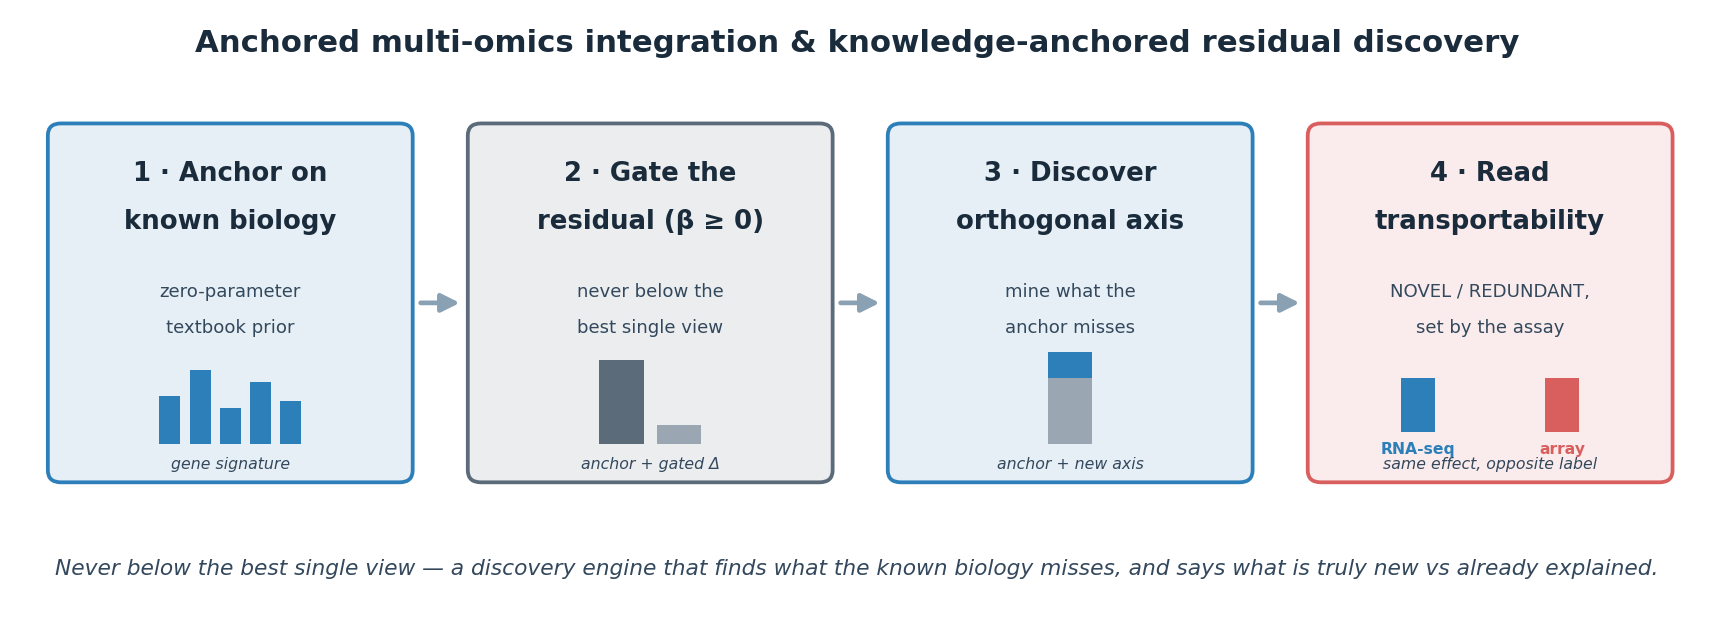
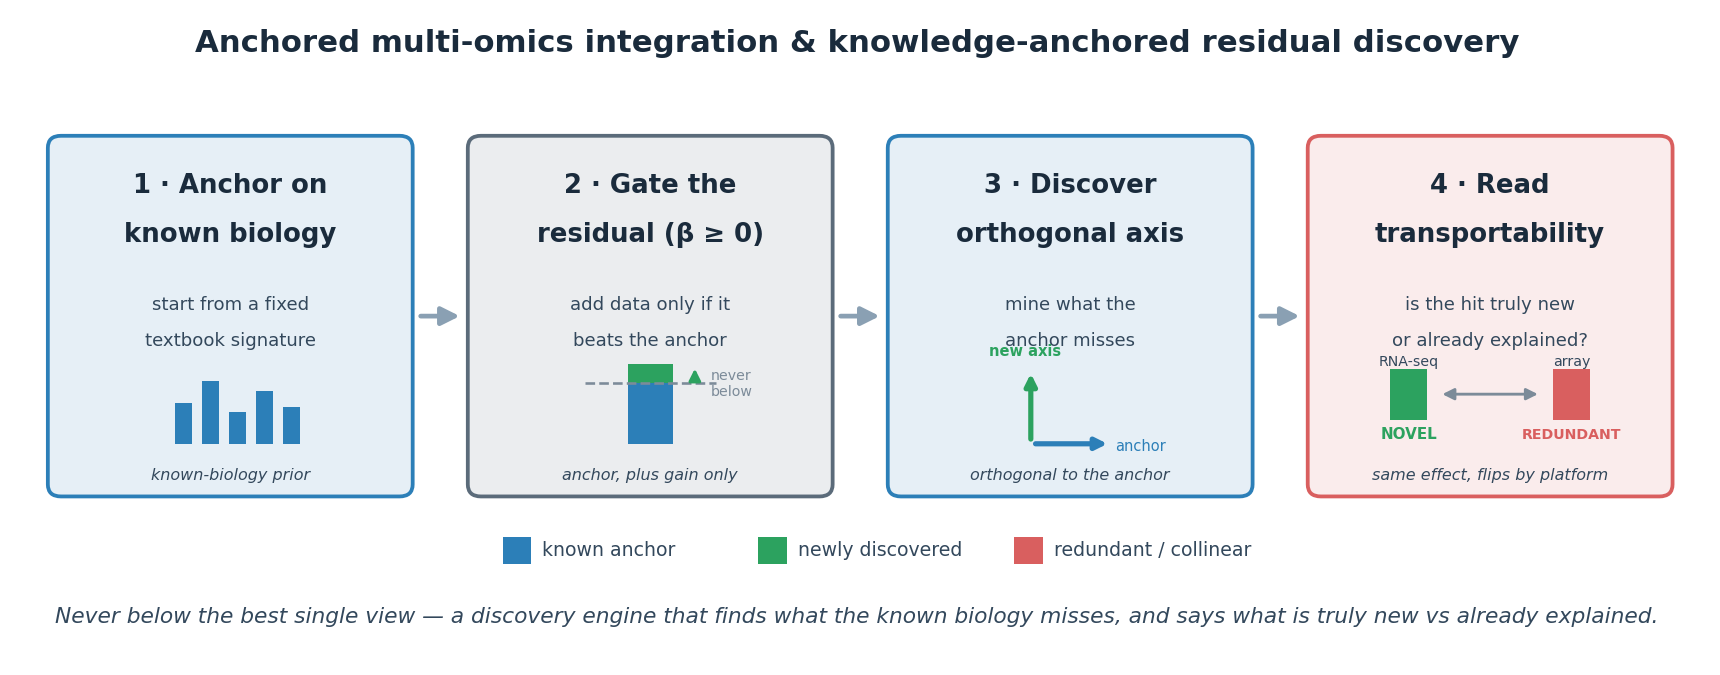
fig(graphical abstract): clearer, colour-coded schematic
Make the graphical abstract more intuitive: consistent colour semantics (blue=known anchor, green=newly
discovered, red=redundant) with a colour key; the gate stage shows a green gain stacked above a dashed
never-below baseline; the discovery stage shows two perpendicular arrows (anchor vs new orthogonal axis); the
transportability stage shows the same effect labelled NOVEL (green) vs REDUNDANT (red) flipping by platform.
Re-render manuscript.

diff --git a/reports/fig_graphical_abstract.py b/reports/fig_graphical_abstract.py
@@ -4,7 +4,8 @@
 Four stages, left to right: (1) anchor on established knowledge (a zero-parameter textbook prior), (2) admit
 genome-wide data only as a non-negative gated residual (never below the anchor), (3) mine the residual to
 discover an anchor-orthogonal axis, (4) read transportability — the same hypothesis can be NOVEL or REDUNDANT
-depending on the measurement platform. Writes reports/figs/graphical_abstract.png.
+depending on the measurement platform. Colour semantics: blue = known/anchor, green = newly discovered,
+red = redundant. Writes reports/figs/graphical_abstract.png.
 
 Run:  python reports/fig_graphical_abstract.py
 """
@@ -15,11 +16,11 @@ import matplotlib.pyplot as plt
 from matplotlib.patches import FancyBboxPatch, FancyArrowPatch
 
 HERE = os.path.dirname(os.path.abspath(__file__)); FIGS = os.path.join(HERE, "figs"); os.makedirs(FIGS, exist_ok=True)
-BLUE, RED, GREY, INK, SUB = "#2c7fb8", "#d95f5f", "#9aa7b2", "#1a2b3c", "#33485c"
+BLUE, GREEN, RED, GREY, INK, SUB = "#2c7fb8", "#2ca25f", "#d95f5f", "#9aa7b2", "#1a2b3c", "#33485c"
 
-W, H, YB = 2.75, 2.95, 1.15          # box width, height, bottom y
-YT = YB + H                           # box top
-XS = [0.25, 3.45, 6.65, 9.85]         # box left edges (gap 0.45 for arrows)
+W, H, YB = 2.75, 2.95, 1.35          # box width, height, bottom y
+YT = YB + H
+XS = [0.25, 3.45, 6.65, 9.85]
 
 
 def draw_box(ax, x, color, title_lines, sublines):
@@ -34,59 +35,67 @@ def draw_box(ax, x, color, title_lines, sublines):
     return cx
 
 
-def bars(ax, cx, base, heights, colors, bw=0.16, gap=0.07):
-    n = len(heights); total = n * bw + (n - 1) * gap; x = cx - total / 2
-    for h, c in zip(heights, colors):
-        ax.add_patch(plt.Rectangle((x, base), bw, h, facecolor=c, edgecolor="none")); x += bw + gap
-
-
 def glabel(ax, cx, text):
-    ax.text(cx, YB + 0.13, text, ha="center", va="center", fontsize=6.7, color=SUB, style="italic")
-
-
-def arrow(ax, x0, x1):
-    ax.add_patch(FancyArrowPatch((x0, YB + H / 2), (x1, YB + H / 2), arrowstyle="-|>",
-                                 mutation_scale=16, linewidth=2, color="#8aa0b3"))
+    ax.text(cx, YB + 0.16, text, ha="center", va="center", fontsize=6.8, color=SUB, style="italic")
 
 
 def main():
-    fig, ax = plt.subplots(figsize=(12.8, 4.6))
-    ax.set_xlim(0, 12.85); ax.set_ylim(0, 5.0); ax.axis("off")
-    ax.text(6.4, 4.78, "Anchored multi-omics integration & knowledge-anchored residual discovery",
+    fig, ax = plt.subplots(figsize=(12.8, 4.9))
+    ax.set_xlim(0, 12.85); ax.set_ylim(0, 5.3); ax.axis("off")
+    ax.text(6.4, 5.08, "Anchored multi-omics integration & knowledge-anchored residual discovery",
             ha="center", va="center", fontsize=13, fontweight="bold", color=INK)
 
-    # 1 · anchor — a gene-signature glyph (several bars)
-    cx = draw_box(ax, XS[0], BLUE, ["1 · Anchor on", "known biology"],
-                  ["zero-parameter", "textbook prior"])
-    bars(ax, cx, YB + 0.30, [0.40, 0.62, 0.30, 0.52, 0.36], [BLUE] * 5); glabel(ax, cx, "gene signature")
+    # 1 · anchor — a gene-signature glyph (several known-biology bars)
+    cx = draw_box(ax, XS[0], BLUE, ["1 · Anchor on", "known biology"], ["start from a fixed", "textbook signature"])
+    x = cx - 0.42
+    for hh in [0.34, 0.52, 0.26, 0.44, 0.30]:
+        ax.add_patch(plt.Rectangle((x, YB + 0.42), 0.13, hh, facecolor=BLUE, edgecolor="none")); x += 0.205
+    glabel(ax, cx, "known-biology prior")
 
-    # 2 · gate — anchor bar (tall) + small gated residual on top
-    cx = draw_box(ax, XS[1], "#5b6b7a", ["2 · Gate the", "residual (β ≥ 0)"],
-                  ["never below the", "best single view"])
-    bars(ax, cx, YB + 0.30, [0.70, 0.16], ["#5b6b7a", GREY], bw=0.34, gap=0.10)
-    glabel(ax, cx, "anchor + gated Δ")
+    # 2 · gate — anchor bar with a small green gain stacked ON TOP of a "never below" baseline
+    cx = draw_box(ax, XS[1], "#5b6b7a", ["2 · Gate the", "residual (β ≥ 0)"], ["add data only if it", "beats the anchor"])
+    base = YB + 0.42
+    ax.add_patch(plt.Rectangle((cx - 0.17, base), 0.34, 0.50, facecolor=BLUE, edgecolor="none"))        # anchor
+    ax.add_patch(plt.Rectangle((cx - 0.17, base + 0.50), 0.34, 0.16, facecolor=GREEN, edgecolor="none"))  # gain
+    ax.plot([cx - 0.5, cx + 0.5], [base + 0.50, base + 0.50], ls="--", lw=1.1, color="#7c8b99")           # never-below line
+    ax.annotate("", xy=(cx + 0.34, base + 0.66), xytext=(cx + 0.34, base + 0.50),
+                arrowprops=dict(arrowstyle="-|>", color=GREEN, lw=1.4))
+    ax.text(cx + 0.46, base + 0.50, "never\nbelow", ha="left", va="center", fontsize=6.0, color="#7c8b99")
+    glabel(ax, cx, "anchor, plus gain only")
 
-    # 3 · discover — anchor bar + orthogonal increment highlighted
-    cx = draw_box(ax, XS[2], BLUE, ["3 · Discover", "orthogonal axis"],
-                  ["mine what the", "anchor misses"])
-    ax.add_patch(plt.Rectangle((cx - 0.17, YB + 0.30), 0.34, 0.55, facecolor=GREY, edgecolor="none"))
-    ax.add_patch(plt.Rectangle((cx - 0.17, YB + 0.85), 0.34, 0.22, facecolor=BLUE, edgecolor="none"))
-    glabel(ax, cx, "anchor + new axis")
+    # 3 · discover — two perpendicular arrows: anchor axis (blue) + orthogonal new axis (green)
+    cx = draw_box(ax, XS[2], BLUE, ["3 · Discover", "orthogonal axis"], ["mine what the", "anchor misses"])
+    ox, oy = cx - 0.30, YB + 0.42
+    ax.annotate("", xy=(ox + 0.62, oy), xytext=(ox, oy), arrowprops=dict(arrowstyle="-|>", color=BLUE, lw=2.2))
+    ax.annotate("", xy=(ox, oy + 0.62), xytext=(ox, oy), arrowprops=dict(arrowstyle="-|>", color=GREEN, lw=2.2))
+    ax.text(ox + 0.64, oy - 0.02, "anchor", ha="left", va="center", fontsize=6.2, color=BLUE)
+    ax.text(ox - 0.04, oy + 0.70, "new axis", ha="center", va="bottom", fontsize=6.2, color=GREEN, fontweight="bold")
+    glabel(ax, cx, "orthogonal to the anchor")
 
-    # 4 · transportability — same effect, opposite label by platform (two labelled bars, inside the box)
-    cx = draw_box(ax, XS[3], RED, ["4 · Read", "transportability"],
-                  ["NOVEL / REDUNDANT,", "set by the assay"])
-    bx = cx - 0.55
-    ax.add_patch(plt.Rectangle((bx - 0.13, YB + 0.40), 0.26, 0.45, facecolor=BLUE, edgecolor="none"))
-    ax.add_patch(plt.Rectangle((cx + 0.55 - 0.13, YB + 0.40), 0.26, 0.45, facecolor=RED, edgecolor="none"))
-    ax.text(bx, YB + 0.26, "RNA-seq", ha="center", va="center", fontsize=6.6, color=BLUE, fontweight="bold")
-    ax.text(cx + 0.55, YB + 0.26, "array", ha="center", va="center", fontsize=6.6, color=RED, fontweight="bold")
-    glabel(ax, cx, "same effect, opposite label")
+    # 4 · transportability — same effect, NOVEL (green) on one platform, REDUNDANT (red) on another
+    cx = draw_box(ax, XS[3], RED, ["4 · Read", "transportability"], ["is the hit truly new", "or already explained?"])
+    lx, rx = cx - 0.62, cx + 0.62
+    ax.add_patch(plt.Rectangle((lx - 0.14, YB + 0.62), 0.28, 0.42, facecolor=GREEN, edgecolor="none"))
+    ax.add_patch(plt.Rectangle((rx - 0.14, YB + 0.62), 0.28, 0.42, facecolor=RED, edgecolor="none"))
+    ax.text(lx, YB + 0.50, "NOVEL", ha="center", va="center", fontsize=6.4, color=GREEN, fontweight="bold")
+    ax.text(rx, YB + 0.50, "REDUNDANT", ha="center", va="center", fontsize=6.0, color=RED, fontweight="bold")
+    ax.text(lx, YB + 1.10, "RNA-seq", ha="center", va="center", fontsize=6.0, color=SUB)
+    ax.text(rx, YB + 1.10, "array", ha="center", va="center", fontsize=6.0, color=SUB)
+    ax.annotate("", xy=(rx - 0.22, YB + 0.83), xytext=(lx + 0.22, YB + 0.83),
+                arrowprops=dict(arrowstyle="<|-|>", color="#7c8b99", lw=1.2))
+    glabel(ax, cx, "same effect, flips by platform")
 
     for i in range(3):
-        arrow(ax, XS[i] + W + 0.04, XS[i + 1] - 0.04)
+        ax.add_patch(FancyArrowPatch((XS[i] + W + 0.04, YB + H / 2), (XS[i + 1] - 0.04, YB + H / 2),
+                                     arrowstyle="-|>", mutation_scale=16, linewidth=2, color="#8aa0b3"))
 
-    ax.text(6.4, 0.42, "Never below the best single view — a discovery engine that finds what the known biology "
+    # colour key + tagline
+    key = [(BLUE, "known anchor"), (GREEN, "newly discovered"), (RED, "redundant / collinear")]
+    kx = 6.4 - 2.7
+    for c, lab in key:
+        ax.add_patch(plt.Rectangle((kx, 0.78), 0.22, 0.22, facecolor=c, edgecolor="none"))
+        ax.text(kx + 0.30, 0.89, lab, ha="left", va="center", fontsize=8, color=SUB); kx += 1.95
+    ax.text(6.4, 0.34, "Never below the best single view — a discovery engine that finds what the known biology "
             "misses, and says what is truly new vs already explained.", ha="center", va="center",
             fontsize=9.2, style="italic", color=SUB)
 